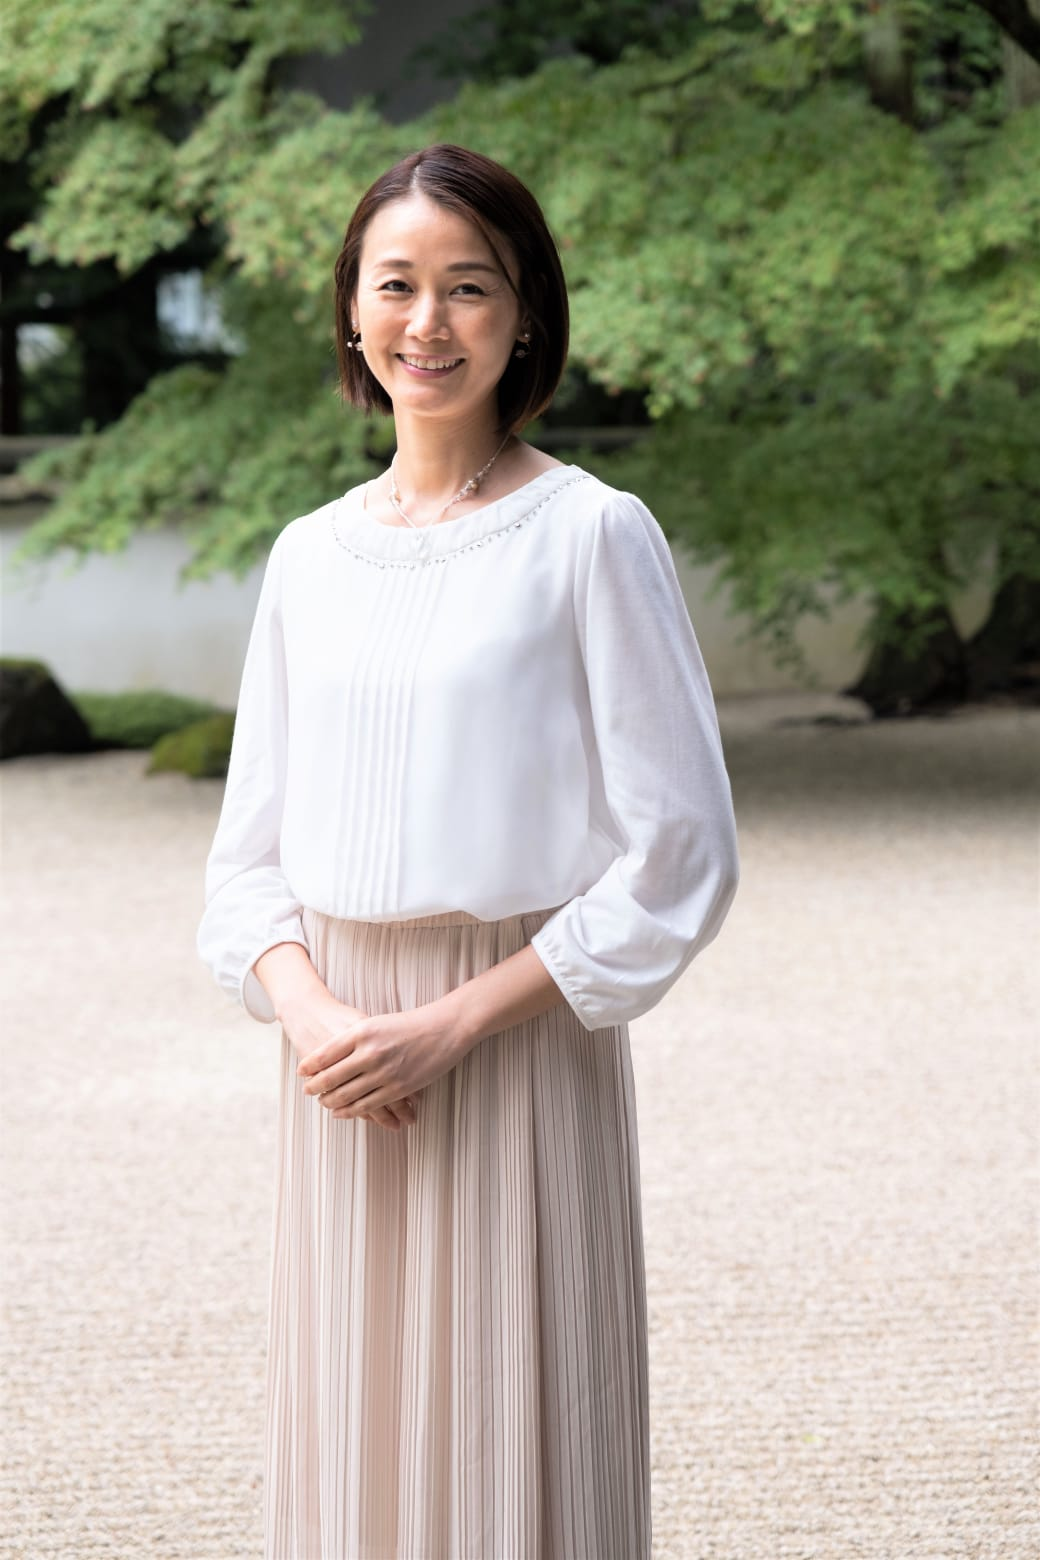
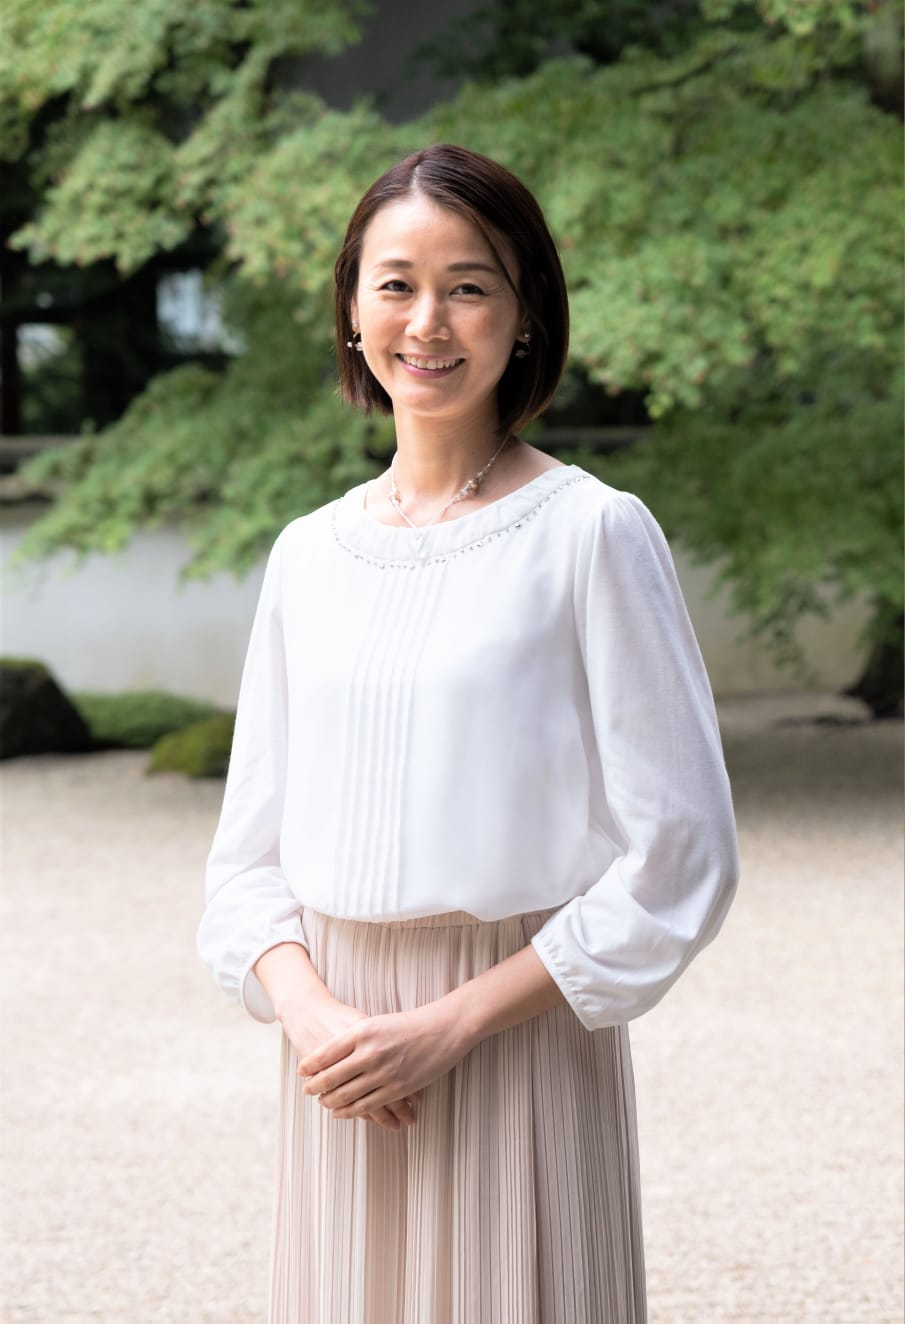
Ai Chan: update public/executive-coaching-en.html, public/executive-coaching.html, public/images/nami-about-1.jpg

diff --git a/public/executive-coaching.html b/public/executive-coaching.html
@@ -937,7 +937,7 @@ html[lang="en"] .footer-logo .logo-sub {
   }
   .about-nami-img {
     height: 350px !important;
-    transform: scale(1.06) translateX(2%);
+    object-position: center 20% !important;
   }
 }
 
@@ -1254,9 +1254,7 @@ html[lang="en"] .footer-logo .logo-sub {
   <div class="container">
     <div class="about-nami-grid" style="display: grid; grid-template-columns: 1fr 1.2fr; gap: 80px; align-items: center;">
       <div class="reveal" style="position: relative;">
-        <div class="about-nami-frame" style="overflow: hidden; border-radius: 2px;">
-          <img src="/images/nami-about-1.jpg?v=20260302" alt="ナミ・バーデン" loading="lazy" class="about-nami-img" style="width: 100%; height: 300px; object-fit: cover; object-position: center 15%; display: block;">
-        </div>
+        <img src="/images/nami-about-1.jpg?v=20260301b" alt="ナミ・バーデン" loading="lazy" class="about-nami-img" style="width: 100%; height: 300px; object-fit: cover; object-position: center 15%; border-radius: 2px;">
         <div style="position: absolute; bottom: -16px; right: -16px; width: 70%; height: 70%; border: 1px solid var(--gold); border-radius: 2px; z-index: -1;"></div>
       </div>
       <div class="reveal reveal-delay-1">

diff --git a/public/executive-coaching-en.html b/public/executive-coaching-en.html
@@ -937,7 +937,7 @@ html[lang="en"] .footer-logo .logo-sub {
   }
   .about-nami-img {
     height: 350px !important;
-    transform: scale(1.06) translateX(2%);
+    object-position: center 20% !important;
   }
 }
 
@@ -1252,9 +1252,7 @@ html[lang="en"] .footer-logo .logo-sub {
   <div class="container">
     <div class="about-nami-grid" style="display: grid; grid-template-columns: 1fr 1.2fr; gap: 80px; align-items: center;">
       <div class="reveal" style="position: relative;">
-        <div class="about-nami-frame" style="overflow: hidden; border-radius: 2px;">
-          <img src="/images/nami-about-1.jpg?v=20260302" alt="Nami Barden" loading="lazy" class="about-nami-img" style="width: 100%; height: 300px; object-fit: cover; object-position: center 15%; display: block;">
-        </div>
+        <img src="/images/nami-about-1.jpg?v=20260301b" alt="Nami Barden" loading="lazy" class="about-nami-img" style="width: 100%; height: 300px; object-fit: cover; object-position: center 15%; border-radius: 2px;">
         <div style="position: absolute; bottom: -16px; right: -16px; width: 70%; height: 70%; border: 1px solid var(--gold); border-radius: 2px; z-index: -1;"></div>
       </div>
       <div class="reveal reveal-delay-1">
